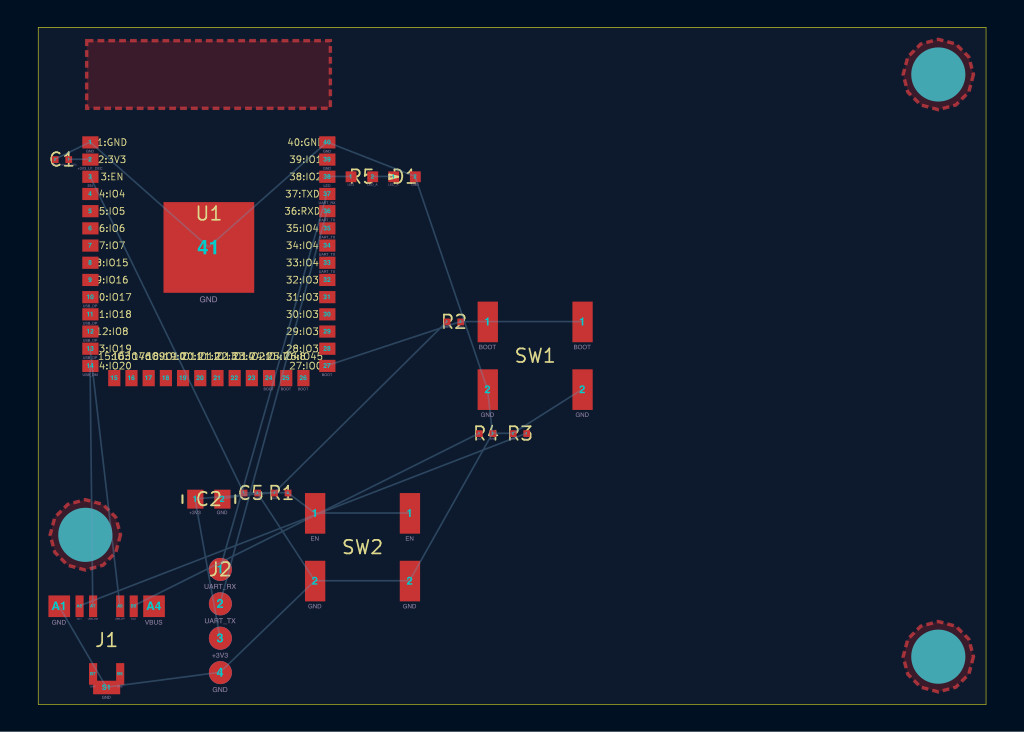
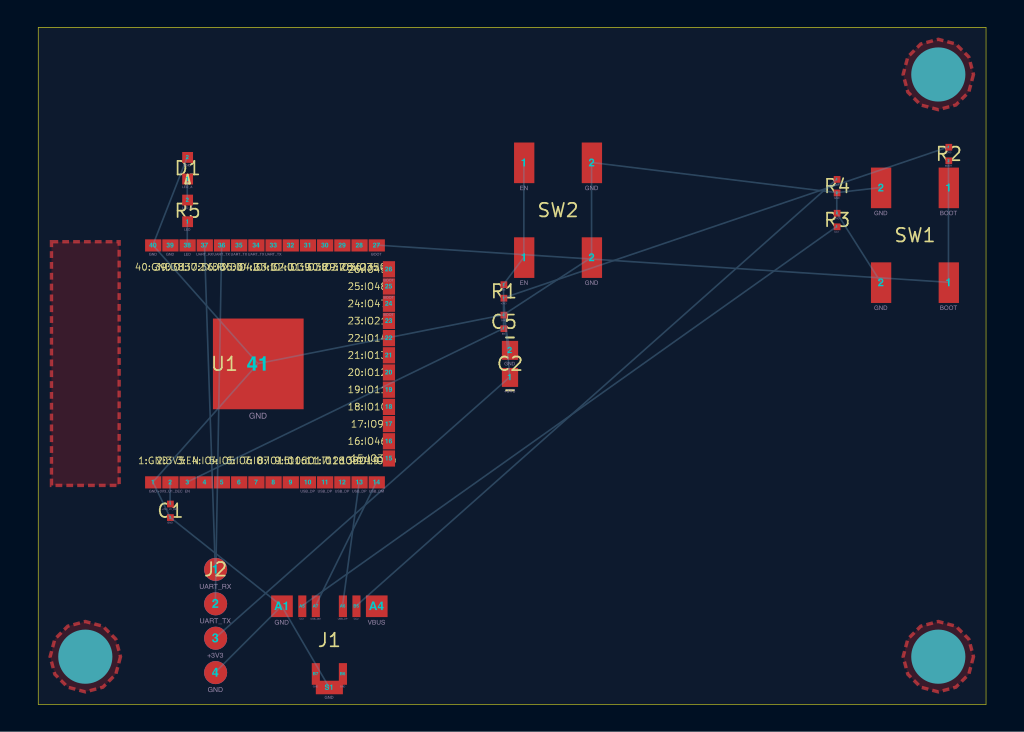
feat(pcb): mounting-hole corners are hard constraints on explicit boards
User finding 2026-06-12: nl-s-3c shipped 3 of 4 holes, both north
ones 12mm off their corners — the shift-or-skip policy degraded a
mechanical requirement silently on a torque-loaded screw-terminal
edge (153mm unsupported span, fab review F-01).

- builder: explicit-dim boards hard-reserve every mounting-hole
  position as a v2 obstacle BEFORE placement (template > mechanical
  declarations > default 4 corners — same resolution as the hole
  placer). Auto-sized boards keep the post-placement shifter.
- floorplan: the locked-connector shelf walk now steps over reserved
  obstacles (a locked connector once shelf-placed ONTO a corner —
  two pinned parties, legalization infeasible), and edge-FACING
  groups slide along their edge to clear reserved corners after the
  flush snap.
- keepout_builder: the RF antenna keepout rect now rotates WITH the
  module (W/H swap at 90/270 + along-antenna offset fix) — Gate A
  re-derives the keepout from the owner pose and caught the
  unswapped zone the first time an ESP32 settled west-facing.
- mcu_core/analog_input trainers declare the 3 holes that physically
  fit their consumed edges (corner holes are hard now; 4 do not fit
  a 65x40 board whose south edge is one long terminal ladder).

Result: nl-s-3c has all 4 holes exactly at (3.5,3.5) (156.5,3.5)
(156.5,76.5) (3.5,76.5); all 5 trainers green end to end. KI-025/026
filed from the netlist-rewrite agent's pipeline findings; KI-027
[…]

diff --git a/src/kicad_pipeline/pcb/builder.py b/src/kicad_pipeline/pcb/builder.py
@@ -793,13 +793,46 @@ def _run_placement_v2(
     from kicad_pipeline.placement_v2.pipeline import run_placement_v2
 
     part_rules = _Path(__file__).resolve().parents[3] / "data" / "part_rules.json"
-    # Mounting-hole corners are NOT reserved: the hole placer shifts
-    # holes along the edge when a corner is occupied (collision check
-    # below), which beats starving edge-snapped groups of corner space.
-    # Auto-ESTIMATED dims are advisory only: v2 shrink-to-fits and the
-    # build adopts the packed size (a 0.03mm-too-small estimate once
-    # halted a feasible power-chain floorplan).
+    # Mounting-hole corners are HARD-RESERVED on explicit-dim boards:
+    # the old shift-or-skip policy left nl-s-3c with 3 of 4 holes, both
+    # north ones 12mm off their corners — a torque-loaded screw-
+    # terminal edge with a 153mm unsupported span (fab review,
+    # 2026-06-12). Auto-sized boards skip reservation (corner positions
+    # are unknown before packing; the post-placement shifter handles
+    # them). Auto-ESTIMATED dims are advisory only: v2 shrink-to-fits
+    # and the build adopts the packed size.
     explicit = ctx.explicit_dimensions
+    reserved: tuple[tuple[str, tuple[Point, ...]], ...] = ()
+    if explicit:
+        inset = _MOUNTING_HOLE_INSET_MM
+        diameter = (
+            ctx.template_mounting_diameter
+            or (requirements.mechanical.mounting_hole_diameter_mm
+                if requirements.mechanical is not None else None)
+            or _MOUNTING_HOLE_DIAMETER_MM
+        )
+        half = diameter / 2.0 + 1.0  # keepout ring around the hole
+        # Same position resolution as _add_mounting_hole_footprints:
+        # template > mechanical declarations > default 4 corners. Small
+        # boards whose edges are consumed by connector rows declare a
+        # feasible hole set instead of the default corners.
+        positions = ctx.template_mounting_positions
+        if positions is None and requirements.mechanical is not None:
+            positions = requirements.mechanical.mounting_hole_positions or None
+        if positions is None:
+            positions = (
+                (inset, inset),
+                (ctx.board_width_mm - inset, inset),
+                (ctx.board_width_mm - inset, ctx.board_height_mm - inset),
+                (inset, ctx.board_height_mm - inset),
+            )
+        reserved = tuple(
+            (f"mh_{idx}", (
+                Point(cx - half, cy - half), Point(cx + half, cy - half),
+                Point(cx + half, cy + half), Point(cx - half, cy + half),
+            ))
+            for idx, (cx, cy) in enumerate(positions, start=1)
+        )
     result = run_placement_v2(
         requirements,
         {fp.ref: fp for fp in pre_footprints},
@@ -809,6 +842,7 @@ def _run_placement_v2(
         feedback_locks_path=v2_feedback_locks_path,
         ledger_path=v2_ledger_path,
         timestamp=datetime.now(timezone.utc).isoformat() if v2_ledger_path else "",
+        reserved_zones=reserved,
     )
     if not result.ok:
         details = "; ".join(v.message for v in result.violations[:10])

diff --git a/src/kicad_pipeline/placement_v2/floorplan.py b/src/kicad_pipeline/placement_v2/floorplan.py
@@ -688,7 +688,11 @@ def pack_board(
             else:
                 band_lo, band_hi = bh0 - _EDGE_MARGIN_MM - depth, bh0 - _EDGE_MARGIN_MM
             along = shelf[edge]
-            for other in locked_placed:
+            # Reserved obstacles (mounting-hole corners) join the walk:
+            # without them a locked connector shelf-placed at the edge
+            # start sat ON a reserved corner, and legalization (both
+            # pinned) was infeasible.
+            for other in (*obstacles, *locked_placed):
                 ob = polygon_bbox(other.polygon_in_board())
                 o_perp = (ob[1], ob[3]) if horizontal else (ob[0], ob[2])
                 if o_perp[0] >= band_hi + clearance_mm or o_perp[1] <= band_lo - clearance_mm:
@@ -1365,6 +1369,29 @@ def _snap_pinned_groups(
                 ),
             )
         out[i] = _snap_to(pc, edge)
+        # Clear reserved corners: a flush-snapped group keeps its packed
+        # along-position, which may cover a hard-reserved mounting-hole
+        # corner — slide it along the edge by the minimal amount
+        # (legalization cannot resolve two pinned parties).
+        horizontal_snap = edge in (Edge.NORTH, Edge.SOUTH)
+        for other in out:
+            if not other.cell.name.startswith("reserved:"):
+                continue
+            gb = polygon_bbox(out[i].polygon_in_board())
+            rb = polygon_bbox(other.polygon_in_board())
+            if (gb[0] >= rb[2] or gb[2] <= rb[0]
+                    or gb[1] >= rb[3] or gb[3] <= rb[1]):
+                continue
+            if horizontal_snap:
+                shift = (rb[2] - gb[0] + _BOARD_CLEARANCE_MM
+                         if (rb[0] + rb[2]) / 2 < (gb[0] + gb[2]) / 2
+                         else rb[0] - gb[2] - _BOARD_CLEARANCE_MM)
+                out[i] = out[i].moved_to(out[i].dx + shift, out[i].dy)
+            else:
+                shift = (rb[3] - gb[1] + _BOARD_CLEARANCE_MM
+                         if (rb[1] + rb[3]) / 2 < (gb[1] + gb[3]) / 2
+                         else rb[1] - gb[3] - _BOARD_CLEARANCE_MM)
+                out[i] = out[i].moved_to(out[i].dx, out[i].dy + shift)
         snapped_edge[out[i].cell.name] = edge
         b = polygon_bbox(out[i].polygon_in_board())
         span = (b[2] - b[0]) if edge in (Edge.NORTH, Edge.SOUTH) else (b[3] - b[1])

diff --git a/src/kicad_pipeline/pcb/keepout_builder.py b/src/kicad_pipeline/pcb/keepout_builder.py
@@ -223,7 +223,11 @@ def _antenna_origin_from_rf_position(
     # half-height (12.75mm) minus half the keepout height as the offset
     # from body centre.
     module_half_h = RF_MODULE_BODY_HEIGHT_MM / 2.0  # 12.75 mm
-    antenna_offset = module_half_h - height / 2.0
+    # The offset runs ALONG the antenna axis: that is the rect's
+    # height when the module points north/south, its width at 90/270
+    # (the caller swaps the rect dims for east/west modules).
+    along = height if round(rot) % 180 == 0 else width
+    antenna_offset = module_half_h - along / 2.0
     angle_rad = _m.radians(rot)
     # In unrotated position, antenna points in -Y direction.
     dx = -antenna_offset * _m.sin(angle_rad)
@@ -265,6 +269,13 @@ def make_antenna_keepout(
         resulting polygon would be degenerate (< 1 mm²).
     """
     if rf_position is not None:
+        # The keepout rectangle rotates WITH the module: a module at
+        # 90/270 points its antenna east/west and the W x H rect must
+        # swap dimensions (Gate A re-derives the keepout from the
+        # owner's pose and flagged the unswapped zone the first time a
+        # module settled west-facing — mcu_core, 2026-06-12).
+        if round(rf_position[2]) % 180 == 90:
+            width, height = height, width
         x0, y0 = _antenna_origin_from_rf_position(
             rf_position, width, height, board_width, board_height,
         )

diff --git a/scripts/train_mcu_core.py b/scripts/train_mcu_core.py
@@ -589,7 +589,13 @@ def _build_requirements() -> ProjectRequirements:
         features=(mcu_feature,),
         components=components,
         nets=nets,
-        mechanical=MechanicalConstraints(board_width_mm=70, board_height_mm=50),
+        mechanical=MechanicalConstraints(
+            board_width_mm=70, board_height_mm=50,
+            # 3 feasible holes: the NW corner hosts the ESP32 module
+            # (antenna north, body west) — corner holes are hard-
+            # reserved zones, and 4 do not fit this training board.
+            mounting_hole_positions=((66.5, 3.5), (66.5, 46.5), (3.5, 46.5)),
+        ),
     )
 
 

diff --git a/scripts/train_analog_input.py b/scripts/train_analog_input.py
@@ -501,7 +501,11 @@ def _build_requirements() -> ProjectRequirements:
         components=tuple(components),
         nets=tuple(nets),
         mechanical=MechanicalConstraints(
-            board_width_mm=_BOARD_WIDTH_MM, board_height_mm=_BOARD_HEIGHT_MM
+            board_width_mm=_BOARD_WIDTH_MM, board_height_mm=_BOARD_HEIGHT_MM,
+            # The south edge is consumed by the terminal ladder —
+            # corner holes are hard-reserved zones, so declare the 3
+            # that fit (both north corners + SW clear of J1).
+            mounting_hole_positions=((3.5, 3.5), (61.5, 3.5), (3.5, 36.5)),
         ),
     )
 

diff --git a/docs/known_issues.md b/docs/known_issues.md
@@ -32,6 +32,10 @@ Every CORE pipeline fix MUST have an entry here and a corresponding test in
 | KI-023 | Generated schematics fail to LOAD in KiCad 10 | Symbol factory packages (`schematic/symbols/{active,passive,power}`) passed NUMERIC pin electrical types (`pin_type=1`) emitted verbatim as `(pin 1 line`; top-level `(embedded_fonts no)` (mandatory since format 20260101) was never written. KiCad refused every generated `.kicad_sch`; the in-memory sync gate compared ref sets only and was blind to it | Fixed 2026-06-12: keyword pin types + embedded_fonts in builder; guarded by `tests/integration/test_sch_pcb_sync.py` (kicad-cli round-trip) | 2026-06-12 |
 | KI-024 | Schematic wiring diverges from netlist | The written schematic's KiCad-derived netlist disagrees with the written PCB pad nets on some topologies (ethernet: caps on invented `AVDD_U1_DEC`; analog: `AINx_DIV` vs `AINx_PROT`; nl-s-3c: pins merged onto `K1_COIL`) — suspected overlapping generated wires creating unintended junctions. 'Update PCB from Schematic' would silently rewire the board. PCB matches requirements; the SCHEMATIC is wrong | Fixed 2026-06-12 in three layers: netlist lint rejects shared-pin net splits (`check_duplicate_pin_nets` — trainers' EN_DEB/XTAL_C/AIN_PROT 'private subnets' merged into their true nodes); power-symbol consolidation disabled on multi-net symbol sides (collinear bus overlap) with per-net staggered depths; `wiring.resolve_stub_collisions` shortens/flips stubs touching foreign nets, with bus net-evidence + structural-stub rules. All 5 trainers pass the written-file sync gate end to end | 2026-06-12 |
 
+| KI-025 | 1V2O-class OUTPUT pins disturb power-bus geometry | W5500 1V2O (pin 22) typed POWER_OUT seats it between +3V3 pins on the generated symbol's power side, breaking consolidated-bus midpoint/junction geometry (netlister emitted `Net-(U6-VDD)` on all supply pins). Worked around in nl-s-3c by typing it OUTPUT | **OPEN — symbol generator should not interleave regulator-output pins into a supply-rail pin row** | Not yet fixed |
+| KI-026 | 4-quadrant schematic layout overflows at ~134 components | Zone grid ran the MCU slot into the ethernet quadrant; a pin landed exactly on another net's stub (merged RELAY_GND into W5500_EXRES). nl-s-3c switched to `build_schematic(compact=True)` | **OPEN — quadrant layout needs extent-aware overflow handling**; the compact layout is collision-free | Not yet fixed |
+| KI-027 | NW corner mounting keepout absent when solver places a part there | Pre-existing: `test_build_pcb_rf_module_adds_antenna_keepout` fails on auto-sized boards when the solver puts the ESP32 at the NW corner (3 corner keepouts + antenna = 4, expected 5). Predates the 2026-06-12 corner-reservation work (verified against HEAD) | **OPEN** | Not yet fixed |
+
 ## Adding a New Entry
 
 1. Assign the next `KI-NNN` ID
